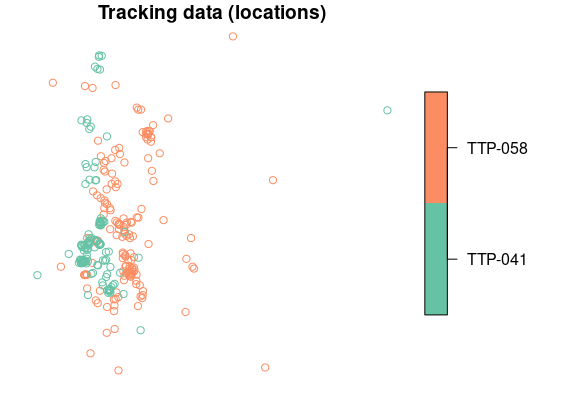
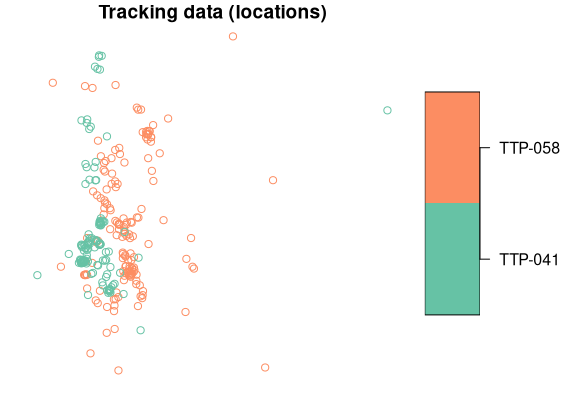
v0.5.5 CRAN comments.

Changed region(s): [[0.75, 0.2084, 0.9688, 0.804], [0.1875, 0.0, 0.5625, 0.0596]]

diff --git a/README.md b/README.md
@@ -8,7 +8,7 @@
 [![Project Status: Active - The project has reached a stable, usable
 state and is being actively
 developed.](https://www.repostatus.org/badges/latest/active.svg)](https://www.repostatus.org/#active)
-[![Licence](https://img.shields.io/badge/license-MIT-green)](https://opensource.org/license/mit/)
+[![Licence](https://img.shields.io/badge/license-MIT-green)](https://opensource.org/license/mit)
 [![CRAN
 Status](http://www.r-pkg.org/badges/version/sftrack)](https://CRAN.R-project.org/package=sftrack)
 [![CRAN
@@ -29,7 +29,11 @@ straight-line segments connecting successive locations). `sftrack` is
 designed to handle movement of both living organisms and inanimate
 objects.
 
-![data definitions](man/figures/definitions-512.png "data definitions")
+<figure>
+<img src="man/figures/definitions-512.png" title="data definitions"
+alt="data definitions" />
+<figcaption aria-hidden="true">data definitions</figcaption>
+</figure>
 
 The development and design of the `sftrack` package follow three simple
 principles:
@@ -89,13 +93,11 @@ In order to convert your raw data into an `sftrack` object, use the
 function `as_sftrack()`. The function requires the three main elements
 of tracking data:
 
-  - coordinates of the locations in at least the `x` and `y` axes (can
-    be UTM, lat/long, etc., with projection provided in `crs`);
-  - timestamps of the locations as `POSIXct` (*or* as `integer`);
-  - grouping information (referred to as a “groups”), providing at least
-    the identity of each individual.
-
-<!-- end list -->
+- coordinates of the locations in at least the `x` and `y` axes (can be
+  UTM, lat/long, etc., with projection provided in `crs`);
+- timestamps of the locations as `POSIXct` (*or* as `integer`);
+- grouping information (referred to as a “groups”), providing at least
+  the identity of each individual.
 
 ``` r
 my_sftrack <- as_sftrack(
@@ -170,17 +172,16 @@ plot(my_sftrack, main = "Tracking data (locations)")
 plot(my_sftraj, main = "Movement data (steps)")
 ```
 
-<img src="man/figures/README-plot-1.png" width="50%" /><img src="man/figures/README-plot-2.png" width="50%" />
+<img src="man/figures/README-plot-1.png" alt="" width="50%" /><img src="man/figures/README-plot-2.png" alt="" width="50%" />
 
 ## Roadmap
 
-  - Data class converters from the main tracking packages, such as
-    `move::Move` and `trackeR::trackeRdata`, integrated into
-    `as_sftrack`;
-  - More plotting options for tracks and trajectories (in base R and
-    `ggplot2`);
-  - Provide Gantt chart-like or chronogram-like graphs;
-  - Dynamic exploration of trajectories.
+- Data class converters from the main tracking packages, such as
+  `move::Move` and `trackeR::trackeRdata`, integrated into `as_sftrack`;
+- More plotting options for tracks and trajectories (in base R and
+  `ggplot2`);
+- Provide Gantt chart-like or chronogram-like graphs;
+- Dynamic exploration of trajectories.
 
 ## How can you help?
 
@@ -189,7 +190,7 @@ plot(my_sftraj, main = "Movement data (steps)")
 2.  Address open questions (see below);
 3.  Contribute use cases (see below).
 
-### Address open questions: *We need your feedback\!*
+### Address open questions: *We need your feedback!*
 
 While the foundations of the package are now pretty solid, we are still
 dealing with open questions about several aspects of the package,
@@ -201,7 +202,7 @@ If you have strong opinions or simply want to help on the technical
 side, we invite you to comment on those [open issues
 here](https://github.com/mablab/sftrack/labels/question).
 
-### Contribute use cases: *We need your feedback\!*
+### Contribute use cases: *We need your feedback!*
 
 We also need to precisely understand what is expected from such a
 package. The idea here is to collect all possible use cases for a
@@ -220,54 +221,54 @@ it, and the input and output of the use case. Such use case could look
 like this:
 
 > **\[Use case\] Amazing plot for trajectory**
-> 
+>
 > **Use case:**
-> 
+>
 > Plot a trajectory using my `special_trajplot` function, which shows
 > \[something amazing\].
-> 
+>
 > **Requirements:**
-> 
->   - spatial coordinates (x,y) as geographic coordinates with
->     projection information
-> 
->   - a time (t) as POSIXt object, ordered in time
-> 
->   - information that identifies individuals (e.g. animal) for each
->     location
-> 
->   - data associated to each location directly accessible
-> 
+>
+> - spatial coordinates (x,y) as geographic coordinates with projection
+>   information
+>
+> - a time (t) as POSIXt object, ordered in time
+>
+> - information that identifies individuals (e.g. animal) for each
+>   location
+>
+> - data associated to each location directly accessible
+>
 > **Input:** a `sftrack` object
-> 
+>
 > **Output:** a plot with \[something amazing\] about the trajectory
-> 
+>
 > **Additional information:** See my `special_trajplot` function here
 > \[with link\].
 
 Another example could be like this:
 
 > **\[Use case\] Fill in missing locations in a sequence**
-> 
+>
 > **Use case:** Fill in the missing locations of a trajectory that
 > contains spatial or temporal gaps. (for instance coming from GPS with
 > failed fixes); In other words add in the missing values of a
 > trajectory, i.e. timestamps with no geographic coordinates.
-> 
+>
 > **Requirements:**
-> 
->   - a time (t) as POSIXt object, ordered in time
-> 
->   - information that identifies sequences of locations (optional, if
->     several sequences), which could be different circuits of one
->     individual, or different individuals, etc.
-> 
->   - `sftrack` should be capable of handling/storing missing values
-> 
+>
+> - a time (t) as POSIXt object, ordered in time
+>
+> - information that identifies sequences of locations (optional, if
+>   several sequences), which could be different circuits of one
+>   individual, or different individuals, etc.
+>
+> - `sftrack` should be capable of handling/storing missing values
+>
 > **Input:** a `sftrack` object
-> 
+>
 > **Output:** a `sftrack` object with additional timestamps for gaps
 > (but otherwise identical in every way to the original `sftrack`)
-> 
+>
 > **Additional information:** See `adehabitatLT::setNA`, which does
 > exactly that on `ltraj` objects.

diff --git a/cran-comments.md b/cran-comments.md
@@ -2,20 +2,16 @@
 
 This is a resubmission. Relevant change in this version:
 
-* Fixed update of `sf` with regards to CRS.
+* Fixed DESCRIPTION with respect to new ORCID format + license URL fix.
   
-This solves the issue mentioned by CRAN maintainers on 2023-03-08 and
-2023-03-12.
-
+This solves the issues mentioned by CRAN maintainers on 2026-04-12 and
+2026-05-17.
 
 ## Test environments
 
-* local: Ubuntu 22.04.2 LTS, R version 4.2.2 Patched (2022-11-10 r83330)
-* GitHub Actions: windows-latest (R-release), macOS-latest (R-release), and
-  ubuntu-latest (R-release, R-oldrelease, and R-devel)
-* win-builder: R-release (R-4.2.2), R-oldrelease (R-4.1.3), R-devel (to be
-  R-4.3.0)
-
+* local: Debian GNU/Linux 13 (trixie), R version 4.5.3 (2026-03-11)
+* GitHub Actions: windows-latest (release), macOS-latest (release), and
+  ubuntu-latest (devel, release, and oldrel-1)
 
 ## R CMD check results
 
@@ -26,26 +22,6 @@ This solves the issue mentioned by CRAN maintainers on 2023-03-08 and
 * GitHub Actions (all platforms):
 
 0 errors ✔ | 0 warnings ✔ | 0 notes ✔
-
-* win-builder (R-release & R-devel):
-
-0 errors ✔ | 0 warnings ✔ | 0 notes ✔
-
-* win-builder (R-oldrelease):
-
-0 errors ✔ | 0 warnings ✔ | 1 note ×
-
-- checking CRAN incoming feasibility ... NOTE
-Maintainer: 'Mathieu Basille <mathieu@basille.org>'
-
-Possibly mis-spelled words in DESCRIPTION:
-  Calenge (34:46)
-  Turchin (34:5)
-  al (34:57)
-  et (34:54)
-
---> These are all fine words (including authors' names).
-
 
 ## Downstream dependencies
 

diff --git a/NEWS.md b/NEWS.md
@@ -1,6 +1,6 @@
 # sftrack 0.5.5 (2026-05-17): CRAN update
 
-* Fixed DESCRIPTION with respect to new ORCID format.
+* Fixed DESCRIPTION with respect to new ORCID format + license URL fix.
 
 
 # sftrack 0.5.4 (2023-03-15): CRAN update
